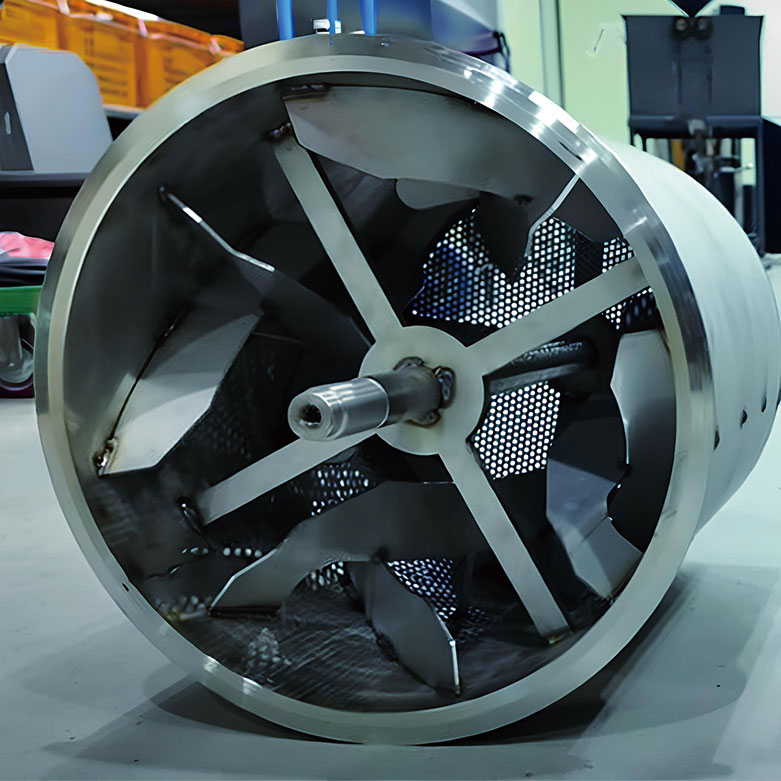
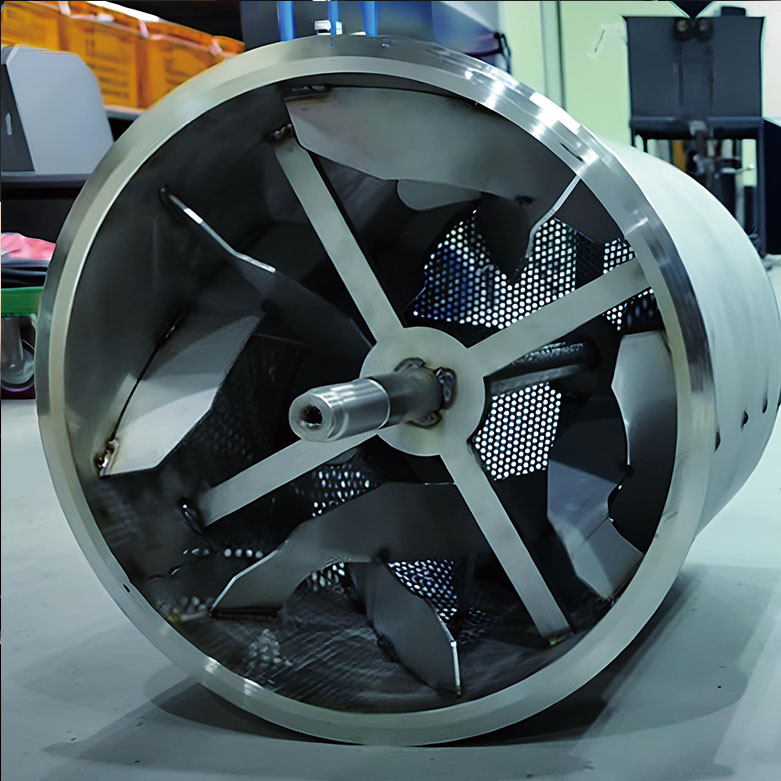
Add remaining B500S detail gallery photos (burner, heater, feeder, discharge)
Replaced the first 3 gallery images with the higher-quality versions
dropped into the project folder, and filled in the last 4 so all 7
detail gallery items now have real photos.

diff --git a/src/data/models.ts b/src/data/models.ts
@@ -14,6 +14,10 @@ import demtruckImage from '../assets/model-demtruck.png'
 import b500sGalleryDrum from '../assets/b500s-gallery-drum.jpg'
 import b500sGalleryPanel from '../assets/b500s-gallery-panel.jpg'
 import b500sGalleryGraph from '../assets/b500s-gallery-graph.jpg'
+import b500sGalleryBurner from '../assets/b500s-gallery-burner.jpg'
+import b500sGalleryHeater from '../assets/b500s-gallery-heater.jpg'
+import b500sGalleryFeeder from '../assets/b500s-gallery-feeder.jpg'
+import b500sGalleryDischarge from '../assets/b500s-gallery-discharge.jpg'
 
 export type Model = {
   id: string
@@ -339,15 +343,18 @@ export const MODELS: Model[] = [
         title: '버너 챔버',
         subtitle: '가스 버너 연소실',
         description: '안정적인 화력으로 일관된 로스팅을 제공합니다.',
+        image: b500sGalleryBurner,
       },
       {
         title: '전기 코일 히터',
         description: '고르게 분산되는 열로 안정적인 로스팅 환경을 제공합니다.',
+        image: b500sGalleryHeater,
       },
       {
         title: '자동 투입 장치 (생두)',
         subtitle: '자동 생두 투입 장치',
         description: '버튼 한 번으로 생두를 손쉽게 투입할 수 있어 작업 효율이 높아집니다.',
+        image: b500sGalleryFeeder,
       },
       {
         title: '제어 터치 패널',
@@ -359,6 +366,7 @@ export const MODELS: Model[] = [
         title: '자동 배출 장치 (원두)',
         subtitle: '자동 배출 장치',
         description: '로스팅이 완료된 원두를 자동으로 배출하여 일정한 품질과 안전성을 확보합니다.',
+        image: b500sGalleryDischarge,
       },
       {
         title: '실시간 그래프 화면',
